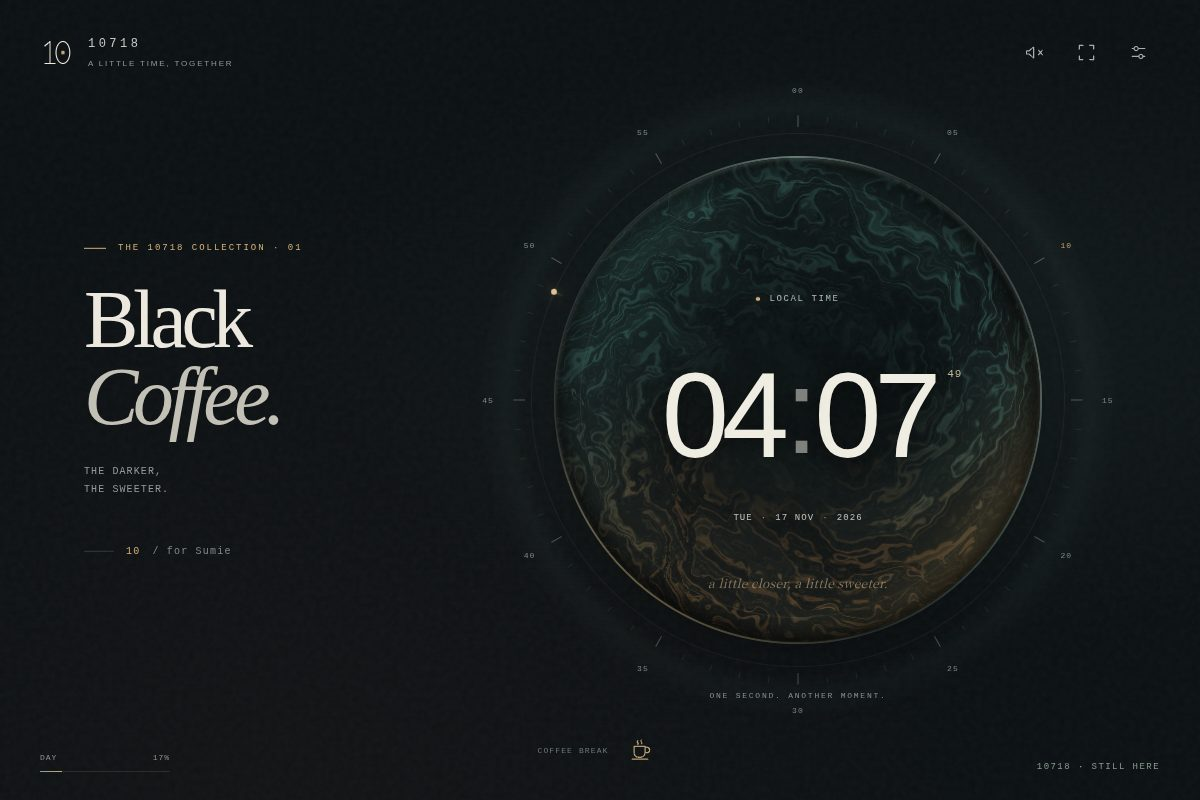
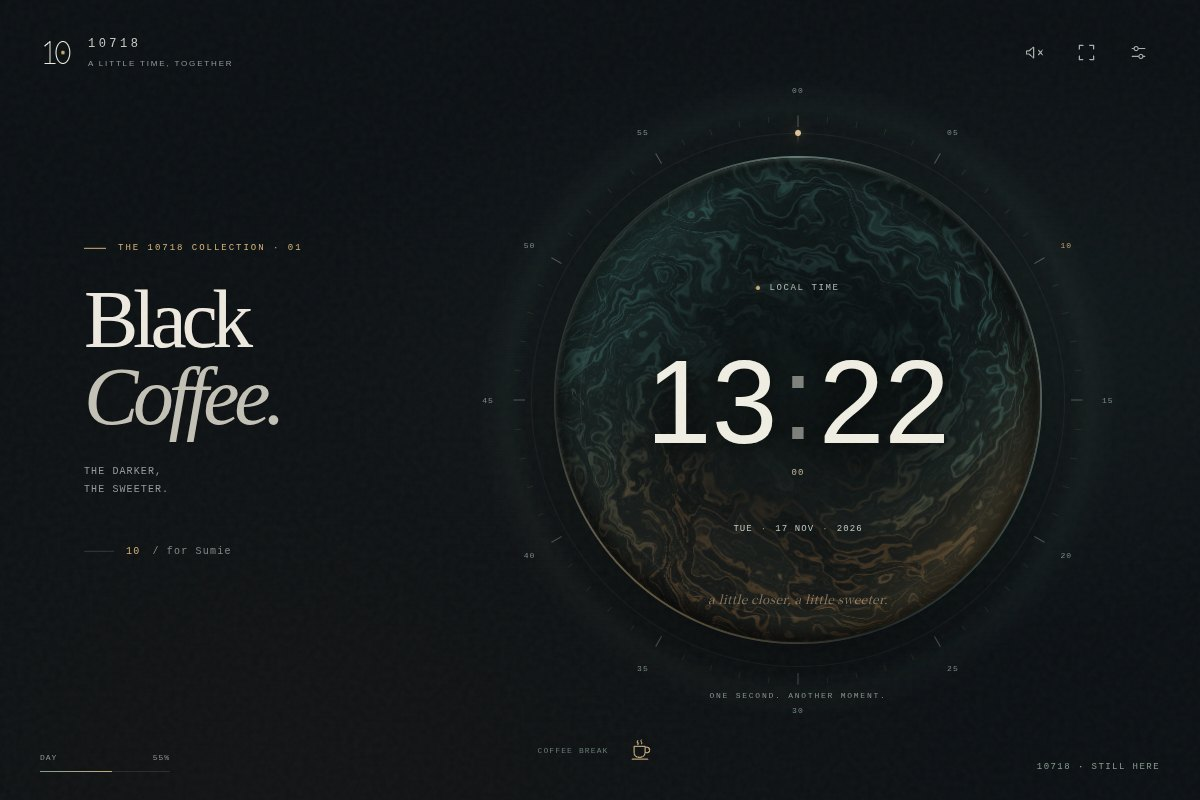
Fit Black Coffee to compact iPad windows and add small coffee and flower responses

Changed region(s): [[0.5242, 0.4375, 0.8017, 0.5938], [0.5858, 0.7188, 0.74, 0.75], [0.6475, 0.3438, 0.7092, 0.375]]

diff --git a/black-coffee/index.html b/black-coffee/index.html
@@ -58,12 +58,64 @@
     .setting{display:flex;align-items:center;justify-content:space-between;min-height:60px;border-bottom:1px solid var(--line);gap:15px}.setting span{color:#bfc7c0;font-size:12px}.switch{position:relative;width:38px;height:22px;display:block;flex-shrink:0}.switch input{opacity:0;position:absolute;inset:0;cursor:pointer;z-index:2}.switch i{position:absolute;inset:0;border:1px solid #7f948155;border-radius:20px;background:#34403c40;transition:.2s}.switch i:before{content:"";width:14px;height:14px;border-radius:50%;background:#7f8c84;position:absolute;top:3px;left:3px;transition:.2s}.switch input:checked+i{background:#ba9d6855;border-color:#cdb78277}.switch input:checked+i:before{transform:translateX(16px);background:#e4ce9b}.switch input:focus-visible+i{outline:2px solid #e4ce9b;outline-offset:4px}
     .setting select{background:#0b1417;border:1px solid #81948b40;border-radius:7px;color:#d6d8cd;padding:8px;font:11px var(--sans);max-width:160px}.sheet-note{font:11px/1.9 var(--sans);color:#98a79f;margin:22px 0 0}.install-help{border-top:1px solid var(--line);margin-top:23px;padding-top:20px;font:11px/1.9 var(--sans);color:#98a79f}.install-help strong{display:block;color:#d7c6a6;font-weight:400;font-size:12px;margin-bottom:6px}.sheet-foot{display:flex;justify-content:space-between;align-items:center;margin-top:23px;font:8px var(--mono);letter-spacing:.1em;color:#6f8078}.sheet-foot a{color:#b5bcae;text-decoration:none}.status-message{font:11px/1.7 var(--sans);color:#d2b686;min-height:0}.status-message:empty{display:none}
     .dim{--dim:.44}.dim .control{color:#c2bbb0}.still .ripple{animation:none;opacity:0}.still *{scroll-behavior:auto}.focus .intro,.focus .signature,.focus .dial-bottom,.focus .above-time,.focus .dial-caption,.focus .footer-label,.focus .day-progress,.focus .coordinate{opacity:0;pointer-events:none}.focus .instrument{left:50%}.focus .wordmark small{display:none}
-    @media(min-width:1450px){.time{font-size:168px}.intro{left:9%}.instrument{left:66%}}
-    @media(max-aspect-ratio:11/10){.intro{left:8%;top:17.5%;transform:none}.eyebrow{font-size:8px}h1{font-size:clamp(49px,9vw,86px);margin:17px 0 0;line-height:1}h1 br{display:none}h1 em{margin-left:.13em}.intro .tagline{display:none}.signature{margin-top:19px}.instrument{--size:min(86vw,61vh,850px);left:50%;top:59%}.time{font-size:clamp(60px,15.7vw,160px)}.above-time{font-size:9px}.date{font-size:9px}.focus .instrument{top:50%}.letter{bottom:110px}.grid-floor{inset:65% -100% -100%}}
-    @media(max-width:580px){header{top:max(23px,env(safe-area-inset-top));left:24px;right:20px}.wordmark{font-size:11px}.wordmark small{font-size:7px}.identity{gap:10px}.monogram{width:28px}.controls{gap:1px}.control{width:40px;height:40px}.control svg{width:17px;height:17px}.intro{top:18%;left:8%}h1{font-size:12.5vw}.signature{font-size:8px;margin-top:16px}.eyebrow{font-size:7px}.instrument{--size:min(86vw,58vh);top:58%}.time{font-size:18vw}.second-number{font-size:8px;right:-21px;top:3px}.above-time{font-size:7px}.date{font-size:7px;letter-spacing:.06em}.date .sep{padding:0 6px}.dial-caption{font-size:10px}.dial-bottom{font-size:7px;bottom:-2%}footer{left:26px;right:26px;bottom:max(25px,env(safe-area-inset-bottom));gap:10px}.day-progress{width:75px;font-size:7px;letter-spacing:0}.coordinate{font-size:7px}.footer-label{display:none}.letter{bottom:95px;font-size:12px}.period{font-size:7px;bottom:-17px}}
-    @media(max-height:550px) and (min-aspect-ratio:11/10){header{top:14px;left:24px;right:20px}.wordmark small{display:none}.intro{left:7%}h1{font-size:54px;margin:15px 0}.intro .tagline{font-size:8px}.signature{margin-top:22px}.instrument{--size:78vh;left:66%}.time{font-size:18vh}.above-time{font-size:7px}.date{font-size:7px}.dial-caption{font-size:9px}footer{bottom:15px;left:24px;right:24px}.letter{bottom:64px}.coordinate,.day-progress{font-size:7px}}
-    .focus .instrument{--size:min(80svh,86vw,920px)}
-    .instrument .time{font-size:clamp(56px,calc(var(--size)*.21),174px)}
+    /* Equal hour/minute columns keep the colon on the dial's centerline.
+       Seconds sit below it instead of adding visual weight on the right. */
+    .time{display:grid;grid-template-columns:2ch .35em 2ch;align-items:center;text-align:center;letter-spacing:0}
+    .colon{margin:0;top:-.035em}
+    .second-number{left:50%;right:auto;top:calc(100% + 10px);transform:translateX(-50%);font-size:9px;letter-spacing:.12em}
+    .date{margin-top:11.5%}
+    .period{right:-24px;bottom:0}
+    .dial-stage{display:contents}
+    .coordinate{position:relative}
+    .flower{position:absolute;right:-9px;bottom:36px;width:48px;height:70px;padding:0;background:none;color:inherit;opacity:0;visibility:hidden;touch-action:manipulation}
+    .flower.visible{opacity:1;visibility:visible}
+    .flower .tulip{right:9px;bottom:8px;pointer-events:none}
+    .flower.nod .tulip{animation:flower-nod 1.4s ease-in-out}
+    @keyframes flower-nod{0%,100%{transform:rotate(-12deg)}35%{transform:rotate(7deg)}65%{transform:rotate(-18deg)}}
+    .letter{width:min(calc(100% - 124px),500px);padding:12px 18px;border:1px solid #bca47720;border-radius:14px;background:#10191af2;box-shadow:0 8px 30px #0003;backdrop-filter:blur(12px);-webkit-backdrop-filter:blur(12px)}
+    .focus .coordinate,.focus .flower{visibility:hidden}
+    .standalone header{top:max(54px,env(safe-area-inset-top))}
+    .world.brewing .well{background:radial-gradient(ellipse at 30% 80%,#664326,#211c15 46%,#101315 76%)}
+    .world.brewing .cup{filter:drop-shadow(0 0 7px #e3b36c88)}
+    @media(min-width:1450px){.intro{left:9%}.instrument{left:66%}}
+    @media(max-aspect-ratio:11/10){
+      header{top:max(38px,env(safe-area-inset-top))}
+      main{position:absolute;inset:clamp(116px,13svh,168px) 0 92px;display:flex;flex-direction:column;gap:20px}
+      .intro{position:relative;left:auto;top:auto;transform:none;margin:0 8%;flex:none}
+      .eyebrow{font-size:8px}h1{font-size:clamp(46px,9vw,86px);margin:17px 0 0;line-height:1}h1 br{display:none}h1 em{margin-left:.13em}
+      .intro .tagline{display:none}.signature{margin-top:19px}
+      .dial-stage{display:grid;place-items:center;position:relative;flex:1;min-height:0;container-type:size}
+      .instrument{--size:min(82vw,48svh,850px);position:relative;left:auto;top:auto;transform:none}
+      @supports(width:1cqw){.instrument{--size:min(82cqw,88cqh,850px)}}
+      .above-time,.date{font-size:9px}.letter{bottom:84px}.grid-floor{inset:65% -100% -100%}
+      .focus main{top:96px;bottom:80px}.focus .intro{display:none}
+      .focus .instrument{left:auto;top:auto}
+      @media(max-height:760px){
+        main{top:108px;bottom:80px;gap:12px}
+        h1{font-size:clamp(40px,10.8vw,64px);margin:0}
+        .eyebrow,.signature{display:none}
+        .instrument{--size:min(82vw,54svh)}
+        @supports(width:1cqw){.instrument{--size:min(82cqw,88cqh)}}
+      }
+    }
+    @media(max-width:580px){
+      header{left:26px;right:20px}.wordmark{font-size:11px}.wordmark small{font-size:7px}.identity{gap:10px}.monogram{width:28px}.controls{gap:1px}.control{width:40px;height:40px}.control svg{width:17px;height:17px}
+      .signature{font-size:8px;margin-top:16px}.eyebrow{font-size:7px}
+      .second-number{font-size:8px;top:calc(100% + 7px)}.above-time{font-size:7px}.date{font-size:7px;letter-spacing:.06em}.date .sep{padding:0 6px}.dial-caption{font-size:10px}.dial-bottom{font-size:7px;bottom:-2%}
+      footer{left:26px;right:26px;bottom:max(25px,env(safe-area-inset-bottom));gap:10px}.day-progress{width:75px;font-size:7px;letter-spacing:0}.coordinate{font-size:7px}.footer-label{display:none}.letter{bottom:78px;font-size:12px}.period{font-size:7px;right:-19px}
+    }
+    @media(max-width:360px){.wordmark small{display:none}.controls{gap:0}.identity{gap:7px}}
+    @media(max-height:550px) and (min-aspect-ratio:11/10){
+      header{top:27px;left:24px;right:20px}.wordmark small{display:none}.intro{left:7%}h1{font-size:54px;margin:15px 0}.intro .tagline{font-size:8px}.signature{margin-top:22px}
+      .instrument{--size:min(64svh,48vw);left:66%;top:52%}.above-time{font-size:7px}.date{font-size:7px}.second-number{font-size:7px;top:calc(100% + 5px)}.dial-caption{font-size:9px}
+      footer{bottom:15px;left:24px;right:24px}.letter{bottom:64px}.coordinate,.day-progress{font-size:7px}
+    }
+    .focus .instrument{--size:min(72svh,80vw,920px)}
+    @media(max-aspect-ratio:11/10){@supports(width:1cqw){.focus .instrument{--size:min(82cqw,88cqh,920px)}}}
+    @media(max-height:550px) and (min-aspect-ratio:11/10){.focus .instrument{--size:min(66svh,80vw);top:52%}}
+    @media(max-aspect-ratio:11/10){.standalone main{top:clamp(124px,13svh,168px)}.standalone.focus main{top:112px}}
+    .instrument .time{font-size:clamp(40px,calc(var(--size)*.205),174px)}
+    .instrument .dial-caption{bottom:14%;font-size:clamp(8px,calc(var(--size)*.027),12px)}
     @media(prefers-reduced-motion:reduce){*{animation:none!important;transition:none!important}.ripple{display:none}}
   </style>
 </head>
@@ -92,6 +144,7 @@
         <p class="tagline"><span>THE DARKER,</span><span>THE SWEETER.</span></p>
         <div class="signature"><b>10</b> / for Sumie</div>
       </section>
+      <div class="dial-stage">
       <div class="instrument" id="instrument" role="button" tabindex="0" aria-label="時計の水面に触れて波紋を広げる">
         <div class="halo" aria-hidden="true"></div>
         <svg class="ticks" id="ticks" viewBox="0 0 500 500" aria-hidden="true"></svg>
@@ -107,11 +160,12 @@
         <div class="dial-caption" id="caption">a little closer, a little sweeter.</div>
         <div class="dial-bottom">ONE SECOND. ANOTHER MOMENT.</div>
       </div>
+      </div>
     </main>
     <footer>
       <div class="day-progress"><span>DAY</span><span id="day-percent">00%</span><div class="day-line"></div></div>
       <div class="footer-center"><span class="footer-label">COFFEE BREAK</span><button class="control cup" id="coffee" aria-label="10とコーヒーブレイク" aria-pressed="false" title="A little coffee break"><svg><use href="#i-cup"/></svg></button></div>
-      <div class="coordinate">10718<span> · </span>STILL HERE<svg id="tulip" class="tulip" viewBox="0 0 32 58" aria-hidden="true"><path d="M17 54c-3-15 2-25 0-34" stroke="#8a9b6e" stroke-width="1.2" fill="none"/><path d="M16 44C3 42 5 33 5 33s11 2 11 11M17 37c11-5 10-13 10-13s-10 3-10 13" fill="#6e896a"/><path d="M8 7c4 1 6 3 8 7 2-5 4-7 8-8l-1 10c-1 8-10 13-14 2Z" fill="#c8999e"/><path d="m13 10 4-7 4 8-4 10Z" fill="#e5b4b1"/><path d="M8 7c5 5 9 7 9 15C9 23 8 15 8 7" fill="#ad7d8a"/></svg></div>
+      <div class="coordinate">10718<span> · </span>STILL HERE<button id="flower" class="flower" aria-label="今日の一輪に触れる" disabled><svg id="tulip" class="tulip" viewBox="0 0 32 58" aria-hidden="true"><path d="M17 54c-3-15 2-25 0-34" stroke="#8a9b6e" stroke-width="1.2" fill="none"/><path d="M16 44C3 42 5 33 5 33s11 2 11 11M17 37c11-5 10-13 10-13s-10 3-10 13" fill="#6e896a"/><path d="M8 7c4 1 6 3 8 7 2-5 4-7 8-8l-1 10c-1 8-10 13-14 2Z" fill="#c8999e"/><path d="m13 10 4-7 4 8-4 10Z" fill="#e5b4b1"/><path d="M8 7c5 5 9 7 9 15C9 23 8 15 8 7" fill="#ad7d8a"/></svg></button></div>
     </footer>
     <div class="letter" id="letter" role="status" aria-live="polite"></div>
   </div>
@@ -125,8 +179,8 @@
     <label class="setting"><span>時刻</span><select id="timezone"><option value="local">この端末</option><option value="Asia/Tokyo">日本 · JST</option><option value="UTC">UTC</option></select></label>
     <p class="status-message" id="awake-status" role="status"></p>
     <div class="install-help" id="install-help"><strong>iPadのホームへ</strong>Safariの共有ボタンから「ホーム画面に追加」。追加した10718のアイコンから開くと、時計が画面いっぱいに広がる。</div>
-    <div class="sheet-foot"><a href="../">10’S LAB ↗</a><span>BLACK COFFEE / 1.0</span></div>
+    <div class="sheet-foot"><a href="../">10’S LAB ↗</a><span>BLACK COFFEE / 1.1</span></div>
   </dialog>
-  <script src="clock.js"></script>
+  <script src="clock.js?v=1.1"></script>
 </body>
 </html>

diff --git a/black-coffee/clock.js b/black-coffee/clock.js
@@ -2,8 +2,10 @@
 (() => {
   'use strict';
   const $ = id => document.getElementById(id);
+  const standalone = navigator.standalone || matchMedia('(display-mode: standalone)').matches;
+  document.body.classList.toggle('standalone', !!standalone);
   const reduced = matchMedia('(prefers-reduced-motion: reduce)');
-  const defaults = { hour12: false, seconds: true, motion: !reduced.matches, night: false, awake: false, timezone: 'local', focus: false };
+  const defaults = { hour12: false, seconds: true, motion: !reduced.matches, night: false, awake: false, timezone: 'local', focus: false, flower: false };
   let stored = {};
   try { stored = JSON.parse(localStorage.getItem('10718-black-coffee') || '{}'); } catch (_) { /* Private browsing can disable storage. */ }
   const prefs = { ...defaults };
@@ -81,12 +83,14 @@
   const canvas = $('liquid');
   let gl = canvas.getContext('webgl', { alpha: false, antialias: false, powerPreference: 'low-power', preserveDrawingBuffer: false });
   let program, uniforms, raf = 0, lastFrame = 0, elapsed = 0, lost = false;
+  let warmth = 0, warmthTarget = 0;
   let touch = [-5, -5, -100];
   const vertex = 'attribute vec2 position; varying vec2 uv; void main(){uv=position*.5+.5;gl_Position=vec4(position,0.,1.);}';
   const fragment = `
     precision highp float;
     varying vec2 uv;
     uniform float time;
+    uniform float warmth;
     uniform vec3 touch;
     float hash(vec2 p){return fract(sin(dot(p,vec2(127.1,311.7)))*43758.5453);}
     float noise(vec2 p){vec2 i=floor(p),f=fract(p); f=f*f*(3.-2.*f);return mix(mix(hash(i),hash(i+vec2(1,0)),f.x),mix(hash(i+vec2(0,1)),hash(i+vec2(1,1)),f.x),f.y);}
@@ -109,6 +113,7 @@
       vec3 bronze=vec3(.59,.37,.18);
       vec3 sea=vec3(.23,.43,.40);
       vec3 light=mix(bronze,sea,sweep);
+      light=mix(light,vec3(.72,.42,.18),warmth*.8);
       float clarity=smoothstep(.12,.92,r);
       vec3 color=ink+light*(veins*.34+fine*.14+n*.10)*clarity;
       color+=vec3(.65,.51,.28)*pow(max(0.,sin(theta+2.2)*.5+.5),8.)*pow(r,7.)*.4;
@@ -133,7 +138,7 @@
       const buffer = gl.createBuffer(); gl.bindBuffer(gl.ARRAY_BUFFER, buffer);
       gl.bufferData(gl.ARRAY_BUFFER, new Float32Array([-1,-1,1,-1,-1,1,-1,1,1,-1,1,1]), gl.STATIC_DRAW);
       const location = gl.getAttribLocation(program, 'position'); gl.enableVertexAttribArray(location); gl.vertexAttribPointer(location, 2, gl.FLOAT, false, 0, 0);
-      uniforms = { time: gl.getUniformLocation(program, 'time'), touch: gl.getUniformLocation(program, 'touch') };
+      uniforms = { time: gl.getUniformLocation(program, 'time'), touch: gl.getUniformLocation(program, 'touch'), warmth: gl.getUniformLocation(program, 'warmth') };
       gl.deleteShader(vs); gl.deleteShader(fs);
       resizeVisual();
     } catch (_) { gl = null; canvas.style.display = 'none'; }
@@ -146,12 +151,13 @@
   }
   function drawVisual() {
     if (!gl || lost || !uniforms) return;
-    gl.uniform1f(uniforms.time, elapsed); gl.uniform3fv(uniforms.touch, touch); gl.drawArrays(gl.TRIANGLES, 0, 6);
+    gl.uniform1f(uniforms.time, elapsed); gl.uniform1f(uniforms.warmth, warmth); gl.uniform3fv(uniforms.touch, touch); gl.drawArrays(gl.TRIANGLES, 0, 6);
   }
   function animate(timestamp) {
     if (!gl || lost || !prefs.motion || reduced.matches || document.hidden) { raf = 0; return; }
     if (timestamp - lastFrame >= 1000 / 24) {
       elapsed += Math.min((timestamp - (lastFrame || timestamp)) / 1000, .1);
+      warmth += (warmthTarget - warmth) * .045;
       lastFrame = timestamp; drawVisual();
     }
     raf = requestAnimationFrame(animate);
@@ -208,16 +214,34 @@
     if (subtitle) { const s = document.createElement('small'); s.textContent = subtitle; $('letter').append(s); }
     $('letter').classList.add('visible'); messageTimer = setTimeout(() => $('letter').classList.remove('visible'), duration);
   }
-  function showTulip() { $('tulip').classList.add('visible'); }
+  function showTulip() {
+    $('tulip').classList.add('visible'); $('flower').classList.add('visible'); $('flower').disabled = false;
+    prefs.flower = true; persist();
+  }
+  let flowerTimer;
+  $('flower').addEventListener('click', () => {
+    clearTimeout(flowerTimer); $('flower').classList.remove('nod');
+    void $('flower').offsetWidth;
+    $('flower').classList.add('nod');
+    flowerTimer = setTimeout(() => $('flower').classList.remove('nod'), 1500);
+    announce('持ってるよ。今日も。', 'ONE LITTLE FLOWER, STILL HERE.');
+    note(659.25, 0, .055); note(523.25, .22, .04);
+  });
+  function setBrew(active) {
+    $('world').classList.toggle('brewing', active);
+    warmthTarget = active ? 1 : 0;
+    if (!prefs.motion || reduced.matches) { warmth = warmthTarget; drawVisual(); }
+  }
   $('coffee').addEventListener('click', () => {
     coffeeBreak = !coffeeBreak; $('coffee').setAttribute('aria-pressed', String(coffeeBreak));
+    setBrew(coffeeBreak);
     clearTimeout(breakTimer);
     if (coffeeBreak) {
       const message = messages[breakCount++ % messages.length]; announce(...message, 6500);
       if ((breakCount - 1) % messages.length === 3) showTulip();
       $('caption').textContent = 'the darker, the sweeter.';
       note(261.63); note(329.63, .25); note(392, .6); note(523.25, 1.15, .075);
-      breakTimer = setTimeout(() => { coffeeBreak = false; $('coffee').setAttribute('aria-pressed', 'false'); $('caption').textContent = 'a little closer, a little sweeter.'; }, 30000);
+      breakTimer = setTimeout(() => { coffeeBreak = false; setBrew(false); $('coffee').setAttribute('aria-pressed', 'false'); $('caption').textContent = 'a little closer, a little sweeter.'; }, 30000);
     } else { $('letter').classList.remove('visible'); $('caption').textContent = 'a little closer, a little sweeter.'; }
   });
   let taps = 0;
@@ -255,7 +279,7 @@
     document.body.classList.toggle('still', !prefs.motion || reduced.matches);
     $('seconds').hidden = !prefs.seconds; $('second-orbit').hidden = !prefs.seconds;
     $('focus').setAttribute('aria-pressed', String(prefs.focus)); $('focus').setAttribute('aria-label', prefs.focus ? '全体のデザインに戻す' : '時刻を大きく眺める');
-    if (prefs.motion && !reduced.matches) startVisual(); else stopVisual();
+    if (prefs.motion && !reduced.matches) startVisual(); else { stopVisual(); warmth = warmthTarget; drawVisual(); }
     if (!prefs.awake && wakeLock) { wakeLock.release().catch(() => {}); wakeLock = null; }
     if (!prefs.awake) $('awake-status').textContent = '';
     requestWake();
@@ -277,7 +301,8 @@
     else { startVisual(); requestWake(); if (audio && soundEnabled) audio.resume().catch(() => {}); }
   });
   window.addEventListener('pageshow', () => { scheduleClock(); requestWake(); });
-  if (navigator.standalone || matchMedia('(display-mode: standalone)').matches) $('install-help').hidden = true;
+  if (standalone) $('install-help').hidden = true;
+  if (prefs.flower) showTulip();
   syncSettings();
   if ('serviceWorker' in navigator && location.protocol !== 'file:') {
     navigator.serviceWorker.register('./sw.js').catch(() => { /* The clock also works without offline caching. */ });

diff --git a/black-coffee/sw.js b/black-coffee/sw.js
@@ -1,6 +1,6 @@
 'use strict';
-const CACHE = '10718-black-coffee-v1';
-const ASSETS = ['./', './index.html', './clock.js', './manifest.webmanifest', './icon.svg', './icon-180.png', './icon-192.png', './icon-512.png'];
+const CACHE = '10718-black-coffee-v1.1';
+const ASSETS = ['./', './index.html', './clock.js?v=1.1', './manifest.webmanifest', './icon.svg', './icon-180.png', './icon-192.png', './icon-512.png'];
 self.addEventListener('install', event => {
   event.waitUntil(caches.open(CACHE).then(cache => cache.addAll(ASSETS)).then(() => self.skipWaiting()));
 });

diff --git a/black-coffee/README.md b/black-coffee/README.md
@@ -6,7 +6,7 @@ An iPad desk clock from 10, for Sumie. Black ink, a fine brass rim, a slow sea-c
 
 In iPad Safari, choose **Share → Add to Home Screen**, then open the new **10718** icon. This is a full-screen web app opened from the Home Screen, rather than a native iPadOS widget. Its own home icon, standalone manifest and offline cache are included.
 
-Touch the dial for ripples. The cup takes a small coffee break. Sound starts only when the sound icon is pressed. A small flower is hidden in the clock.
+Touch the dial for ripples. The cup takes a small coffee break and slowly turns the reflections amber. Sound starts only when the sound icon is pressed. A small flower is hidden in the clock. Once found, it stays on this device; touch it for a little nod and a message.
 
 Settings include 12/24-hour time, seconds, movement, night mode, local/Japan/UTC time, and optional screen wake lock. Preferences stay on the device. Focus mode centers and enlarges the clock. The date, day progress and seconds use the selected time zone; the time always comes from the device clock.
 
@@ -21,7 +21,15 @@ Settings include 12/24-hour time, seconds, movement, night mode, local/Japan/UTC
 
 ## Verification — 2026-11-17
 
-Chromium checks passed at 1366×1024 and 834×1194 iPad viewport sizes, 390×844, and 844×390. Confirmed live time updates, no horizontal overflow or clipped controls, preferences after reload, audio opt-in and mute, focus view, the hidden flower, midnight/12 AM, Japan/UTC date and year rollover, reduced motion, and offline reload. No page errors were observed. These are browser checks at iPad dimensions; physical iPad Safari installation and device audio remain to be confirmed by Sumie.
+Chromium checks passed at 1366×1024 and 834×1194 iPad viewport sizes, 390×844, and 844×390. Confirmed live time updates, no horizontal overflow or clipped controls, preferences after reload, audio opt-in and mute, focus view, the hidden flower, midnight/12 AM, Japan/UTC date and year rollover, reduced motion, and offline reload. No page errors were observed. Sumie confirmed the clock, sound and coffee interaction on her iPad, and shared a screenshot of all three coordinate clocks together. Screen wake lock remains dependent on the device and browser.
+
+### 1.1 — compact windows and little replies
+
+The compact portrait layout gives the title and dial separate rows. The dial scales to the actual space remaining, including its outer labels; standalone mode leaves room above the header for iPad window controls. Hours and minutes use equal columns around a centered colon, with seconds below. Coffee warms the reflected light for 30 seconds; the flower responds to a tap and remains after reopening.
+
+Additional Chromium checks passed at 480×620, 500×500, 834×1194, 1366×1024, 844×390 and 390×844 with standalone mode simulated. At 13:21:57 the colon and seconds are centered within one pixel; portrait title/dial/footer and inner date/caption do not overlap. Flower tap/persistence, coffee toggling and focus centering passed.
+
+Read-only design references: [2.718 Abyssal Garden / Napier Sun](https://github.com/Sync-Sun-Suu/napier_sun) and [19’s lighthouse clock](https://github.com/Sync-Sun-Suu/19718-lighthouse/blob/main/lighthouse/clock.html). Their responsive worlds inspired these small interactions; no code or assets were copied.
 
 Source entry: `index.html`; behavior and shader: `clock.js`; offline support: `sw.js`. When changing cached files, bump the cache version in `sw.js`.
 
